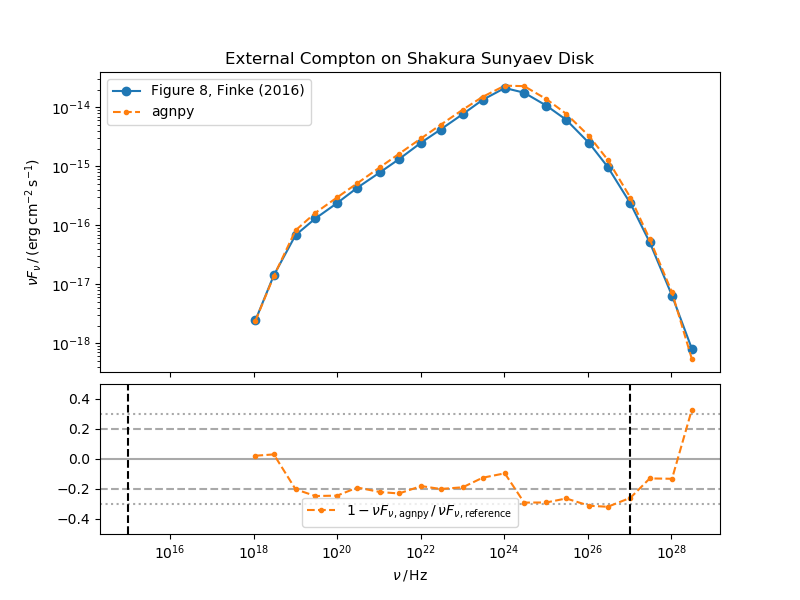
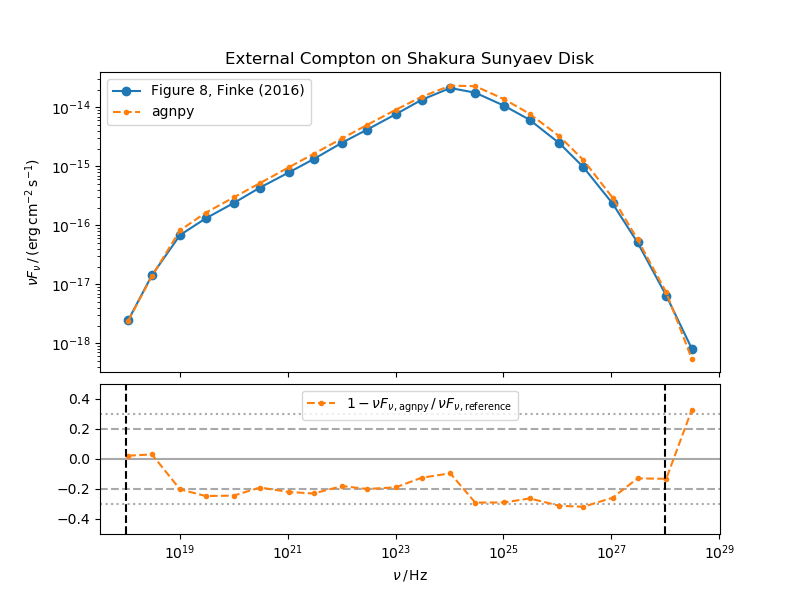
small fix in EC on Disk

diff --git a/agnpy/tests/test_compton.py b/agnpy/tests/test_compton.py
@@ -141,7 +141,7 @@ class TestExternalCompton:
         ec_disk = ExternalCompton(bpwl_blob_test, disk_test, r)
         sed_agnpy = ec_disk.sed_flux(nu_ref)
         # check in a restricted energy range
-        nu_range = [1e15, 1e27] * u.Hz
+        nu_range = [1e18, 1e28] * u.Hz
         make_comparison_plot(
             nu_ref,
             sed_ref,
